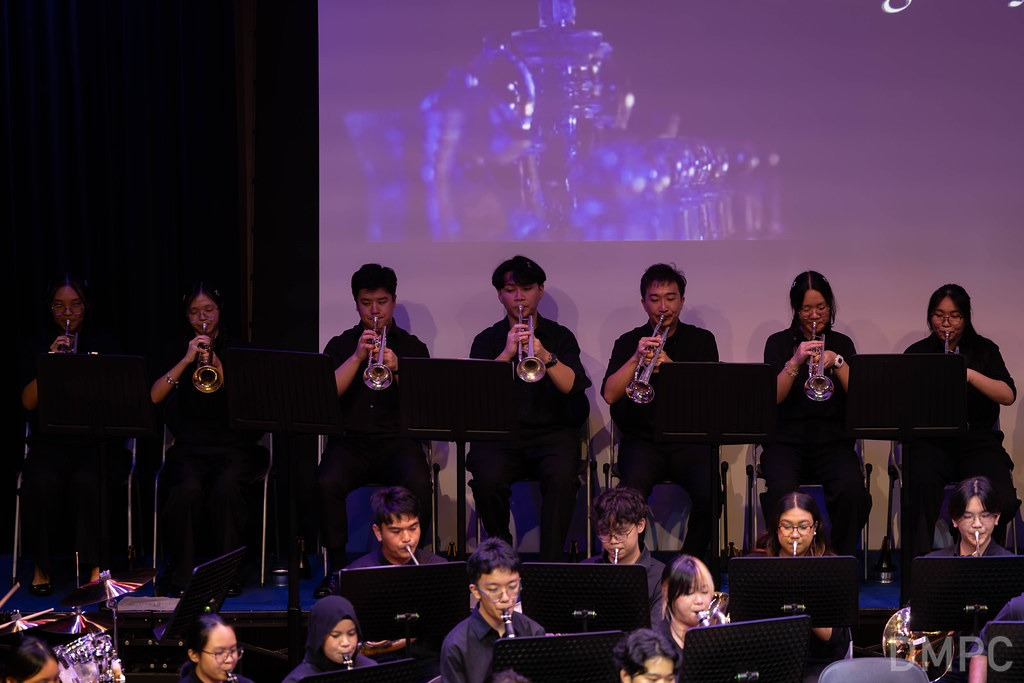
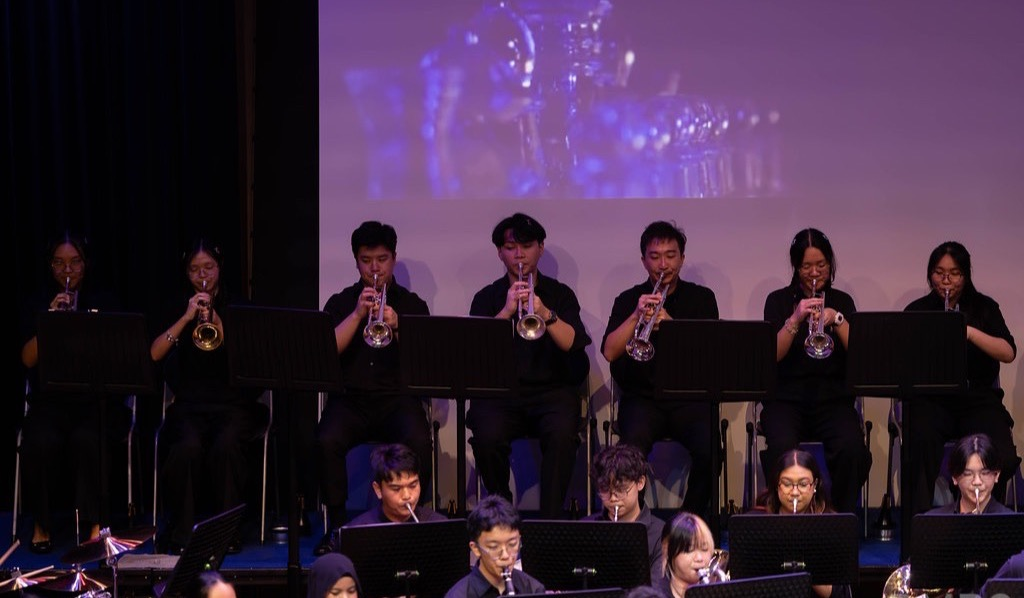
Add Changkat band photo, real LinkedIn link, capitalised project tags
- Use the Changkat Changi photo for the Quartermaster role; remove placeholder
- Crop the TP Band photo
- Point LinkedIn links at the real profile
- Capitalise project tags and 'Credits'

diff --git a/src/content.ts b/src/content.ts
@@ -17,9 +17,8 @@ export const profile = {
   name: "Gabriel Bryce Rabuya Maximo",
   headline: "Aerospace Engineering @ Temasek Polytechnic", // typed out letter by letter on load
   email: "gabe.mex11@gmail.com",
-  // TODO: replace with your real LinkedIn profile URL and label.
-  linkedin: "https://linkedin.com/in/your-profile",
-  linkedinLabel: "linkedin.com/in/your-profile",
+  linkedin: "https://www.linkedin.com/in/gabriel-maximo-7b28a63a5/",
+  linkedinLabel: "linkedin.com/in/gabriel-maximo-7b28a63a5",
   // Optional: put your résumé PDF in public/ (e.g. public/resume.pdf) and set this to
   // "resume.pdf" to show a "View résumé" button. Leave "" to hide the button.
   // Remove your phone number from the PDF before publishing it.
@@ -58,7 +57,7 @@ export const education: {
     period: "2021 – 2024",
     title: "Singapore-Cambridge GCE Ordinary Level",
     school: "Changkat Changi Secondary School",
-    detail: "Achieved 15 credits",
+    detail: "Achieved 15 Credits",
     detailNote: "Distinctions in Literature & Mathematics",
   },
 ];
@@ -123,7 +122,7 @@ export const projects: Project[] = [
     role: "Principles of Dynamics",
     summary:
       "Designed, 3D-printed and assembled a working launcher that had to hit a target at two different heights. Iterated the CAD model based on test results to improve accuracy, and used test data to select the most accurate launch angles for the final assessment.",
-    tools: ["3D CAD", "3D printing", "Component assembly", "Test & iterate", "Projectile dynamics"],
+    tools: ["3D CAD", "3D Printing", "Component Assembly", "Test & Iterate", "Projectile Dynamics"],
     image: "images/projects/ping-pong-launcher.jpeg",
     imageSize: [2036, 2048],
     imageAlt: "The 3D-printed ping pong ball launcher",
@@ -134,7 +133,7 @@ export const projects: Project[] = [
     role: "Statics & Strength of Materials",
     summary:
       "Constructed and load-tested a popsicle stick truss bridge to bear increasing loads. Documented structural failure modes across prototypes to refine assembly methods, applying statics and materials theory to maximize load-bearing capacity for final evaluation.",
-    tools: ["Truss design", "Statics", "Load testing", "Failure analysis"],
+    tools: ["Truss Design", "Statics", "Load Testing", "Failure Analysis"],
     image: "images/projects/truss-bridge.jpeg",
     imageSize: [2000, 1500],
     imageAlt: "The completed popsicle stick truss bridge",
@@ -168,8 +167,8 @@ export const involvement: Involvement[] = [
   {
     period: "Apr 2021 – Apr 2024",
     title: "Quartermaster, Concert Band, Changkat Changi Secondary School",
-    image: "images/cca.svg",
-    imageAlt: "Changkat Changi Secondary School Concert Band",
+    image: "images/changkat-band.jpeg",
+    imageAlt: "Student leaders at the Changkat Changi Secondary School Student Leaders' Investiture Ceremony 2024",
     points: [
       "Managed inventory, instrument handling and storage orderliness to prevent loss or damage to the band's instruments",
       "Enforced safety and discipline among band members to ensure proper conduct during band",
